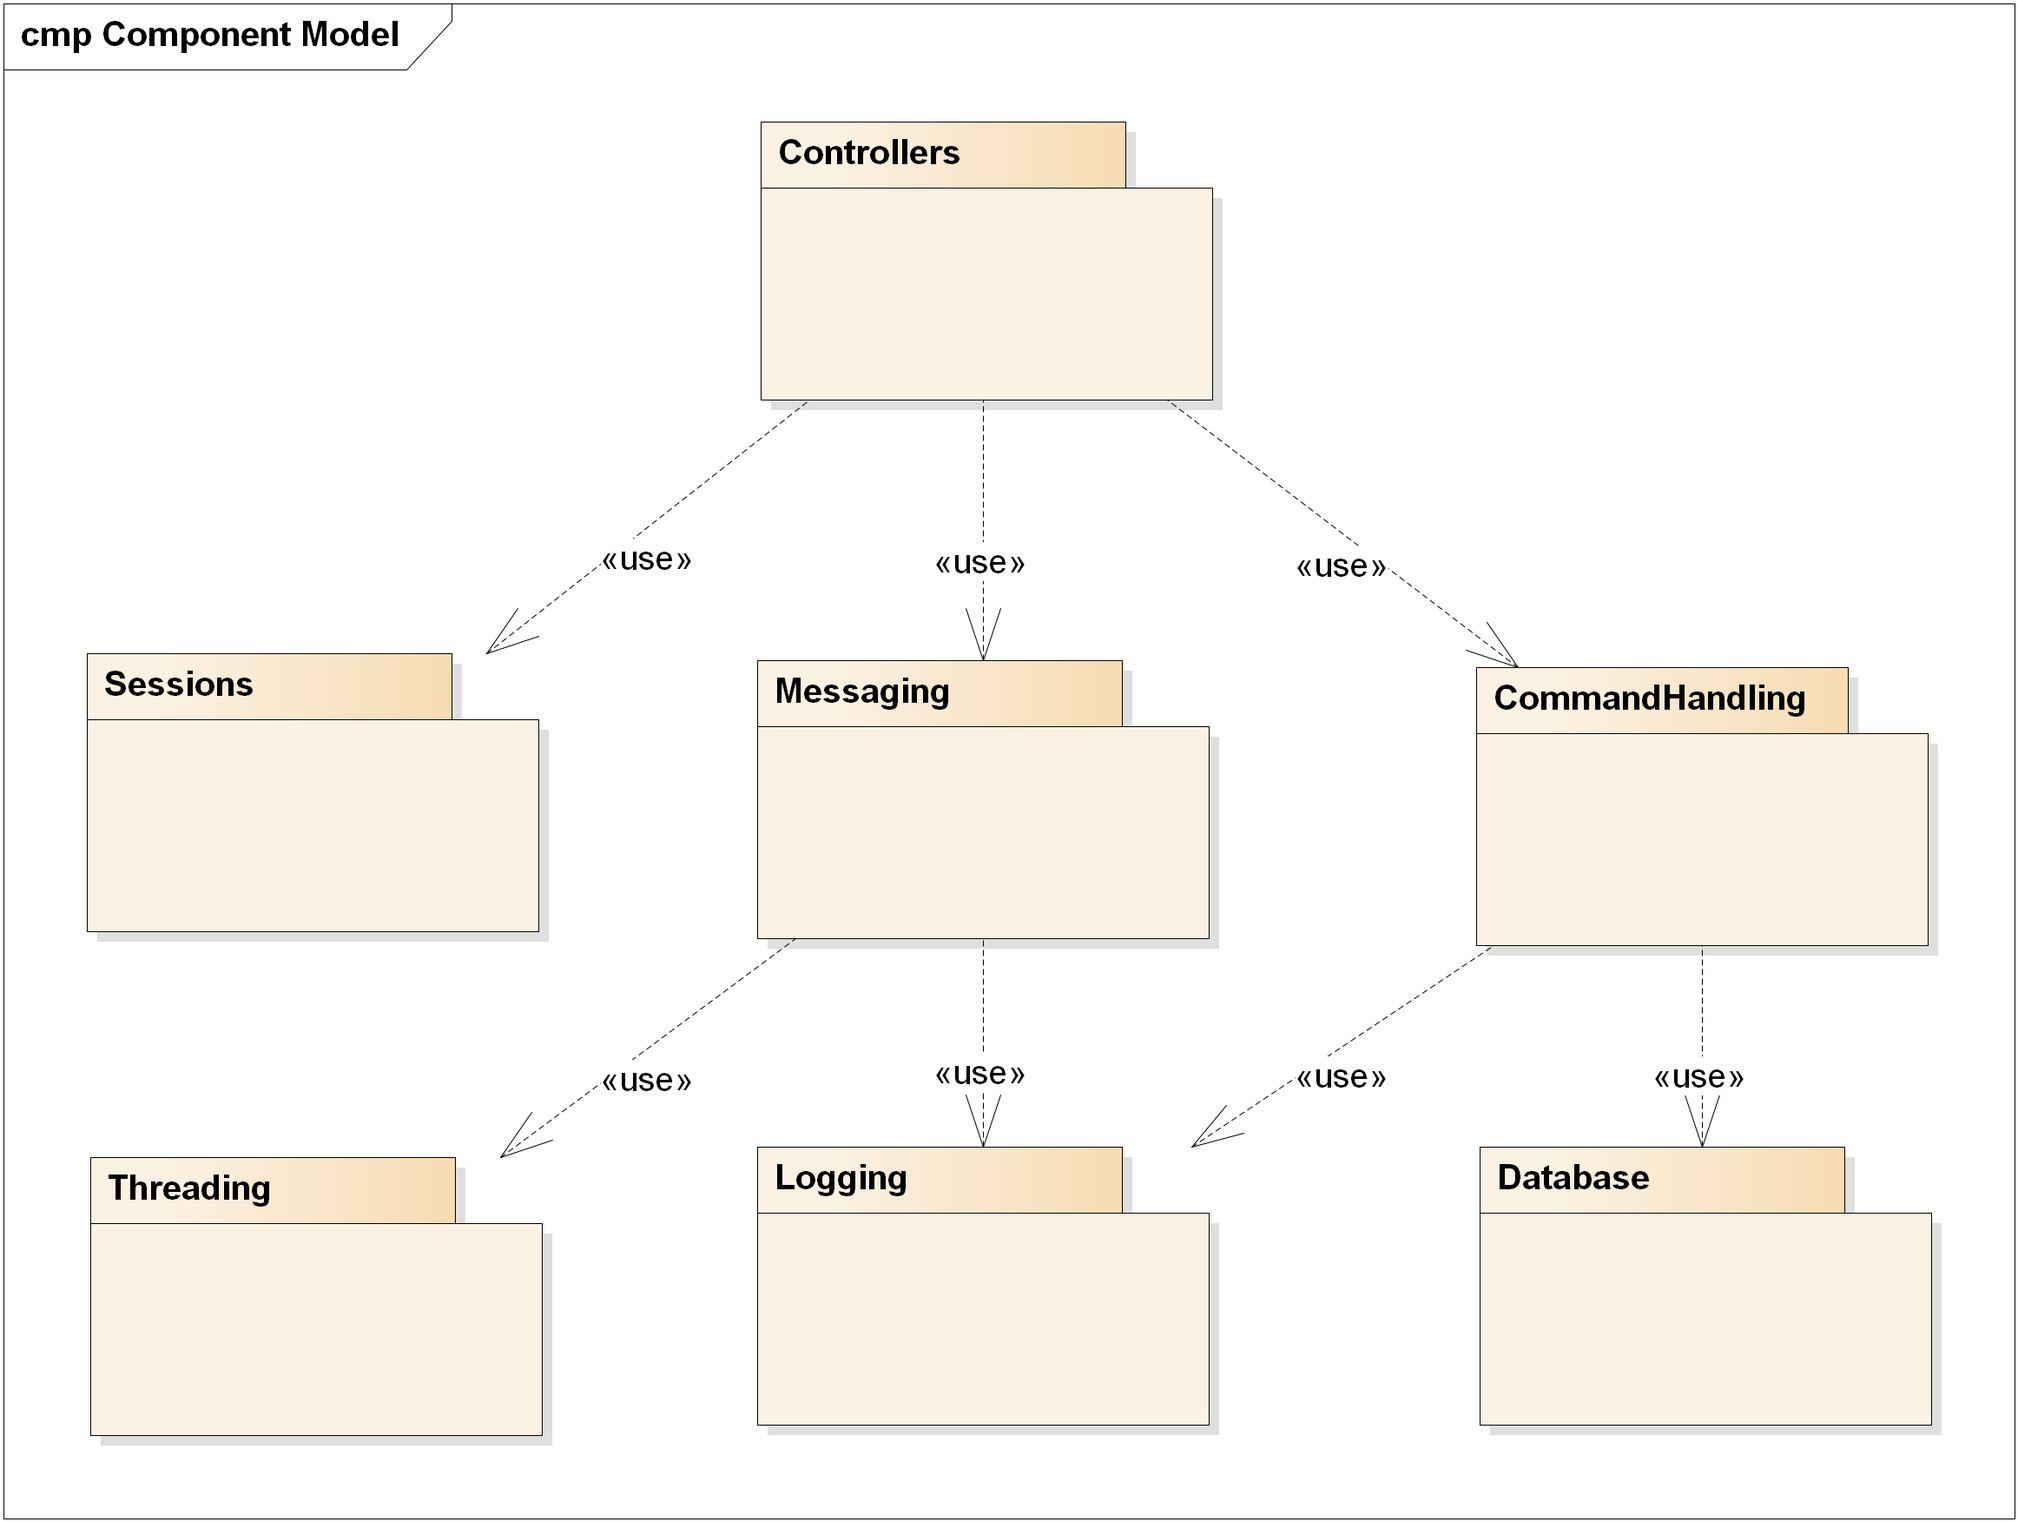
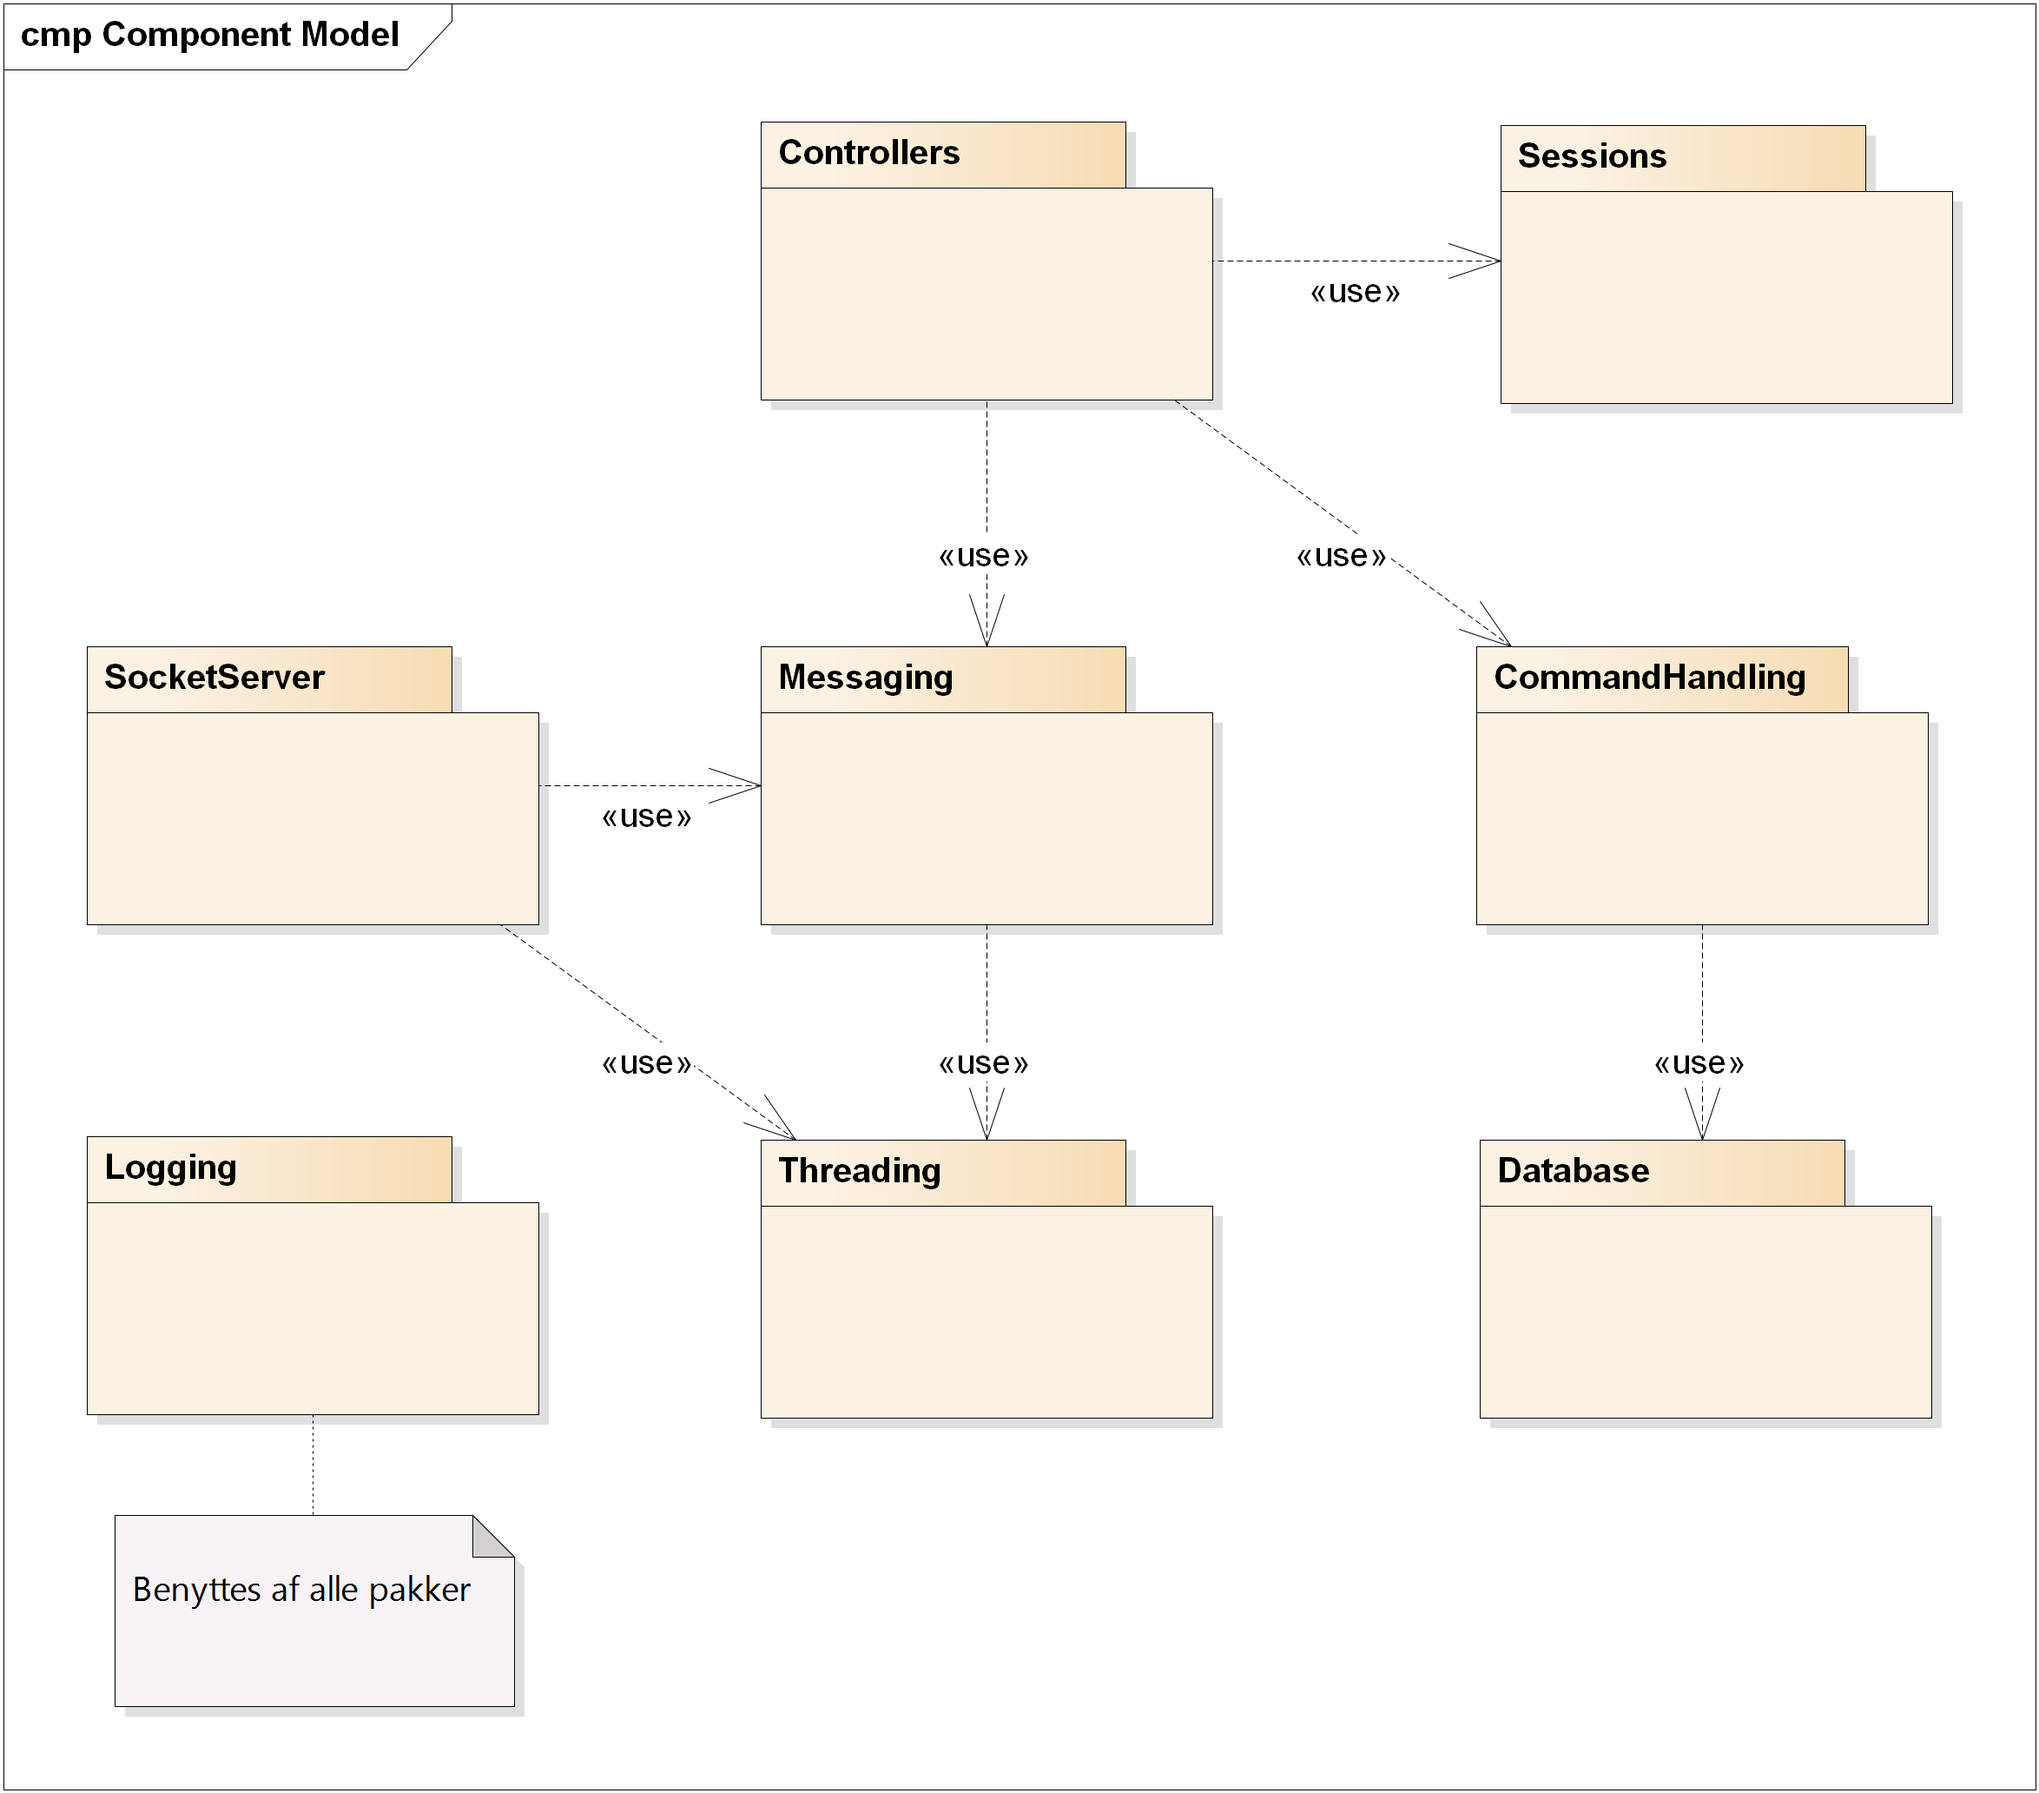
Design og implementering af CentralServer

diff --git a/LaTeX/Projektrapport/Projektbeskrivelse/DesignOgImplementering/CentralServer.tex b/LaTeX/Projektrapport/Projektbeskrivelse/DesignOgImplementering/CentralServer.tex
@@ -1,1 +1,74 @@
 \subsection{CentralServer}
+
+\textbf{Funktionalitet}\\
+Iht. afsnittet "Specifikation og analyse" er hovedfunktionaliteten i CentralServer en TCP/IP socket-server, hvor flere klienter kan forbinde til - og kommunikere med - asynkront. Derudover var det et krav, at CentralServer skulle håndtere alt interaktion med Database.\\
+
+For at imødekomme kravene på fornuftig vis, implementere CentralServer følgende funktionalitet:
+
+\begin{itemize}
+	\item Multitrådet programmering.
+	\item Et event-baseret beskedsystem, som tillader tråde at sende beskeder til hinanden, samt synkronisering af tråde.
+	\item Logging af beskeder i forskellige niveauer samt til forskellige former for outputs.
+	\item En socket-server, der altid er klar til at acceptere indkommende forbindelser.
+	\item En objektorienteret tilgang til en SQL server.
+	\item Håndtering af kommandoer, som er modtaget fra klienter.
+\end{itemize}
+
+
+\textbf{Afhængigheder}\\
+CentralServer er afhængig af følgende:
+
+\begin{itemize}
+	\item Visual Studio 2015: der benyttes syntax, som ikke er understøttet af C\# compileren i Visual Studio 2013.
+	\item Entity Framework: benyttes til at have en objektorienteret tilgang til databasen.
+	\item SharedLib: der benyttes datamodeller og funktionalitet til at håndtere dataprotokol.
+\end{itemize}
+
+
+\textbf{Design}\\
+Ifm. design af CentralServer er der lagt vægt på følgende:
+
+\begin{itemize}
+	\item Mulighed for udvidelse: klasser skal ikke være afhængige af specifikke implementeringer, men skal derimod afhænge af interfaces hvor muligt.
+	\item Minimal blokering: tråde skal generelt kun blokere, hvor det er nødvendigt, da blokering er en kostbar operation.
+	\item Testbarhed: test af flertrådede programmer, og programmer med databaser, er ikke en del af vores pensum. Der er derfor blevet prioriteret at teste de aspekter af CentralServer, som ikke har med disse discipliner at gøre. Dette har resulteret i begrænsninger ift. både unit- og integrationstesting.
+\end{itemize}
+
+\begin{figure}[H]
+    \centering
+    \includegraphics[width=1\textwidth]{../Projektdokumtation/Systemdesign/CentralServer/Images/Packages.png}
+    \caption{Pakkediagram for CentralServer}
+    \label{fig:CSPackages}
+\end{figure}
+
+
+\textbf{Controllers}\\
+Indeholder implementeringerne af de forskellige tråde, der kan modtage beskeder fra andre tråde. Denne pakke benytter følgende pakker:
+
+\begin{itemize}
+	\item Sessions: benyttes til at identificere klienter ud fra sessions ID.
+	\item Messaging: benyttes til at kunne modtage beskeder fra andre tråde.
+	\item CommandHandling: benyttes til at håndtere kommandoer, som er modtaget fra forbundne klienter.
+\end{itemize}
+
+
+\textbf{Sessions}\\
+Indeholder funktionalitet til at identificere forbundne klienter ud fra et sessions ID.\\
+
+\textbf{Messaging}\\
+Indeholder beskedsystem, som tillader tråde at kommunikere med hinanden. Denne pakke benytter Threading-pakken til at implementere en tråd, der kan modtage beskeder fra andre tråde.\\
+
+\textbf{SocketServer}\\
+Indeholder implementeringen af socket-serveren. Denne pakke benytter Threading-pakken til at eksekvere i en tråd, og den benytter Messaging-pakken til at sende beskeder til en controller, når en ny klient er forbundet.\\
+
+\textbf{CommandHandling}\\
+Indeholder håndtering af kommandoer, som er modtaget fra forbundne klienter. Det er heri, at business logic er placeret. Denne pakker benytter Database-pakken til at tilgå data fra databasen.\\
+
+\textbf{Threading}\\
+Indeholder en hjælpe-klasse samt et interface, som kan benyttes til at starte tråde.\\
+
+\textbf{Logging}\\
+Indeholder funktionalitet til at logge begivenheder. Logging benyttes af alle andre pakker.\\
+
+\textbf{Database}\\
+Indeholder database access layer (DAL). Her ligger implementering af Entity Framework contexten.
